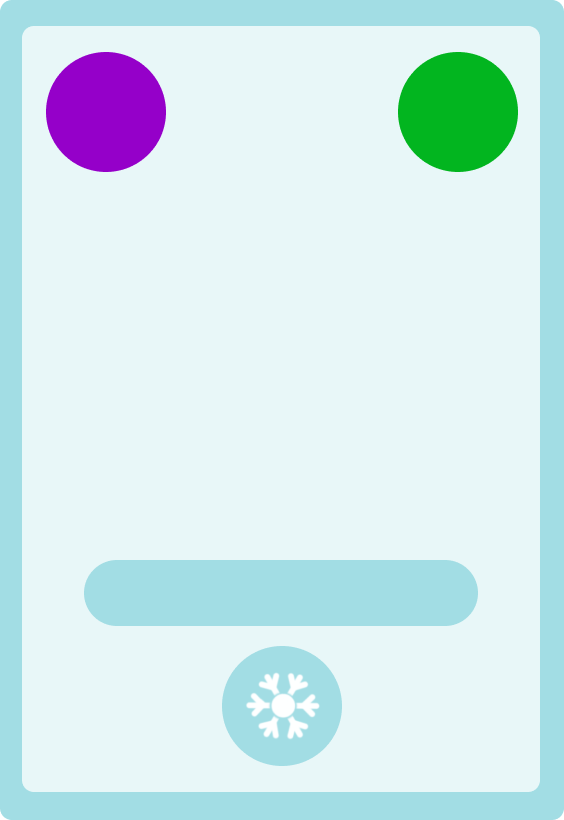
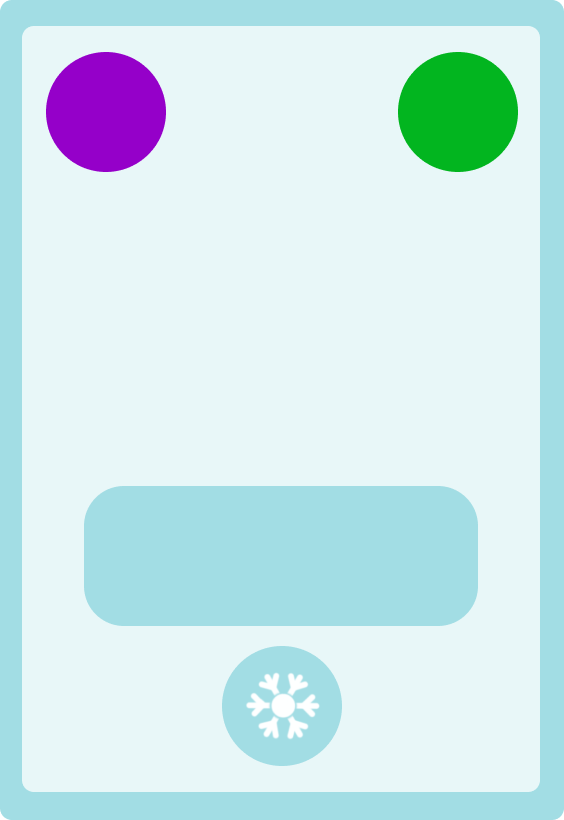
Finalmente cartas conectadas tablero god

Changed region(s): [[0.1507, 0.5793, 0.8741, 0.7012], [0.8138, 0.7317, 0.844, 0.7622], [0.1507, 0.7317, 0.1809, 0.7622]]

diff --git a/frontdz/src/components/game/GameBoard.jsx b/frontdz/src/components/game/GameBoard.jsx
@@ -119,28 +119,39 @@ function GameBoard() {
                     </div>
                     <div className="row down-row">
                         {cardOne && (
-                            <div className="card_Game selectable">
-                                {cardOne.name} Mana Cost: {cardOne.mana_cost !== undefined ? cardOne.mana_cost : 'N/A'} {cardOne.spell_class ? '' : `ATK Points: ${cardOne.atk_points || 'N/A'}`} Type: {cardOne.type || 'N/A'}
+                            <div className={`card_Game selectable ${cardOne.type}`}>
+                                <p className='mana'>{cardOne.mana_cost}</p>
+                                <p className='atk'>{cardOne.atk_points}</p>
+                                <p className='name'>{cardOne.name} </p>
                             </div>
                         )}
                         {cardTwo && (
-                            <div className="card_Game selectable">
-                                {cardTwo.name} Mana Cost: {cardTwo.mana_cost !== undefined ? cardTwo.mana_cost : 'N/A'} {cardTwo.spell_class ? '' : `ATK Points: ${cardTwo.atk_points || 'N/A'}`} Type: {cardTwo.type || 'N/A'}
+                            <div className={`card_Game selectable ${cardTwo.type}`}>
+                                <p className='mana'>{cardTwo.mana_cost}</p>
+                                <p className='atk'>{cardTwo.atk_points}</p>
+                                <p className='name'>{cardTwo.name} </p>
+                                
                             </div>
                         )}
                         {cardThree && (
-                            <div className="card_Game selectable">
-                                {cardThree.name} Mana Cost: {cardThree.mana_cost !== undefined ? cardThree.mana_cost : 'N/A'} {cardThree.spell_class ? '' : `ATK Points: ${cardThree.atk_points || 'N/A'}`} Type: {cardThree.type || 'N/A'}
+                            <div className={`card_Game selectable ${cardThree.type}`}>
+                                <p className='mana'>{cardThree.mana_cost}</p>
+                                <p className='atk'>{cardThree.atk_points}</p>
+                                <p className='name'>{cardThree.name} </p>
                             </div>
                         )}
                         {cardFour && (
-                            <div className="card_Game selectable">
-                                {cardFour.name} Mana Cost: {cardFour.mana_cost !== undefined ? cardFour.mana_cost : 'N/A'} {cardFour.spell_class ? '' : `ATK Points: ${cardFour.atk_points || 'N/A'}`} Type: {cardFour.type || 'N/A'}
+                            <div className={`card_Game selectable ${cardFour.type}`}>
+                                <p className='mana'>{cardFour.mana_cost}</p>
+                                <p className='atk'>{cardFour.atk_points}</p>
+                                <p className='name'>{cardFour.name} </p>
                             </div>
                         )}
                         {cardFive && (
-                            <div className="card_Game selectable">
-                                {cardFive.name} Mana Cost: {cardFive.mana_cost !== undefined ? cardFive.mana_cost : 'N/A'} {cardFive.spell_class ? '' : `ATK Points: ${cardFive.atk_points || 'N/A'}`} Type: {cardFive.type || 'N/A'}
+                            <div className={`card_Game selectable ${cardFive.type}`}>
+                                <p className='mana'>{cardFive.mana_cost}</p>
+                                <p className='atk'>{cardFive.atk_points}</p>
+                                <p className='name'>{cardFive.name}</p>
                             </div>
                         )}
                     </div>

diff --git a/frontdz/src/components/common/App.css b/frontdz/src/components/common/App.css
@@ -352,21 +352,19 @@ details summary:hover {
 }
 
 .card_Game {
-    width: 100px;
-    height: 150px;
+    width: 120px;
+    height: 170px;
     background-color: #808080;
     color: white;
     display: flex;
     justify-content: center;
     align-items: center;
-    border-radius: 10px;
+    border-radius: 5px;
     box-shadow: 0 4px 8px rgba(0, 0, 0, 0.2);
     margin: 0 10px;
     transition: transform 0.2s;
 }
 .card_Game.select {
-  width: 100px;
-  height: 150px;
   background-color: #f1f1f1;
   color: white;
   display: flex;
@@ -376,6 +374,62 @@ details summary:hover {
   box-shadow: 0 4px 8px rgba(0, 0, 0, 0.2);
   margin: 0 10px;
   transition: transform 0.2s;
+}
+
+.mana{
+  bottom: 33%;
+  left: 15%;
+  margin-top: 0;
+  position: relative;
+}
+
+.atk{
+  bottom: 33%;
+  left: 70%;
+  margin-top: 0;
+  position: relative;
+}
+
+.name{
+  font-size: 10px;
+  text-align: center;
+  font-weight: 500;
+  bottom: -18%;
+  margin-right: 1rem;
+  left: 0;
+  width: 89px;
+  position: relative;
+  align-items: center;
+}
+
+.hielo{
+  background-image: url('../../assets/imgs/fondo-cartas/hielo.png'); 
+  background-size: cover; 
+  background-position: center; 
+}
+
+.fuego{
+  background-image: url('../../assets/imgs/fondo-cartas/fuego.png'); 
+  background-size: cover; 
+  background-position: center; 
+}
+
+.agua{
+  background-image: url('../../assets/imgs/fondo-cartas/agua.png'); 
+  background-size: cover; 
+  background-position: center; 
+}
+
+.tierra{
+  background-image: url('../../assets/imgs/fondo-cartas/tierra.png'); 
+  background-size: cover; 
+  background-position: center; 
+}
+
+.aire {
+  background-image: url('../../assets/imgs/fondo-cartas/aire.png'); 
+  background-size: cover; 
+  background-position: center; 
 }
 
 .card_Game.selectable:hover {
@@ -391,8 +445,8 @@ details summary:hover {
   justify-content: center;
   height: 500vh;
   width: 1000vw;
-  max-width: 1000px;
-  max-height: 600px;
+  max-width: 1100px;
+  max-height: 650px;
   background-color: rgba(217, 217, 217, 1);
   border-radius: 3%;
   box-sizing: border-box;
